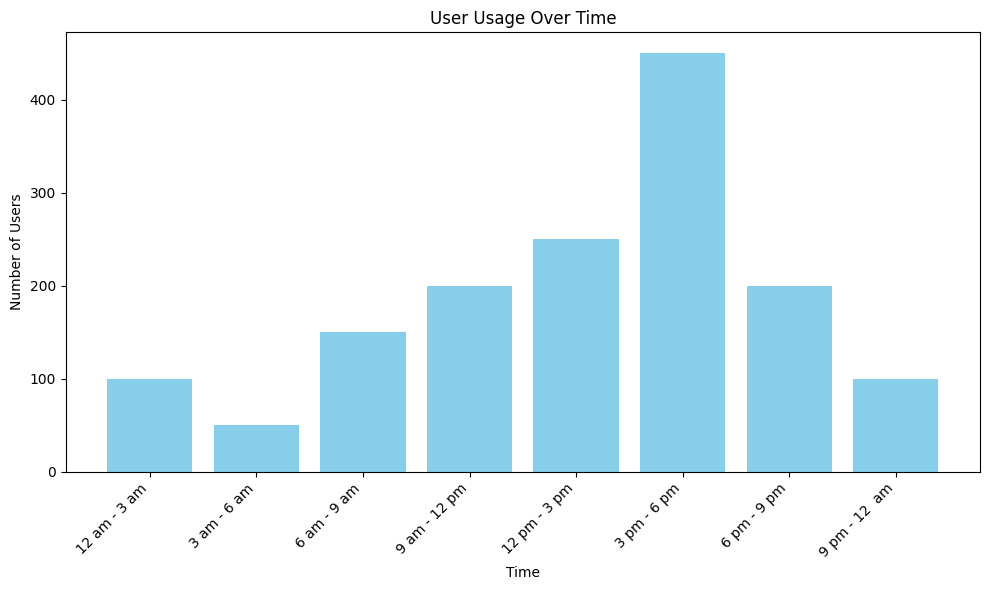
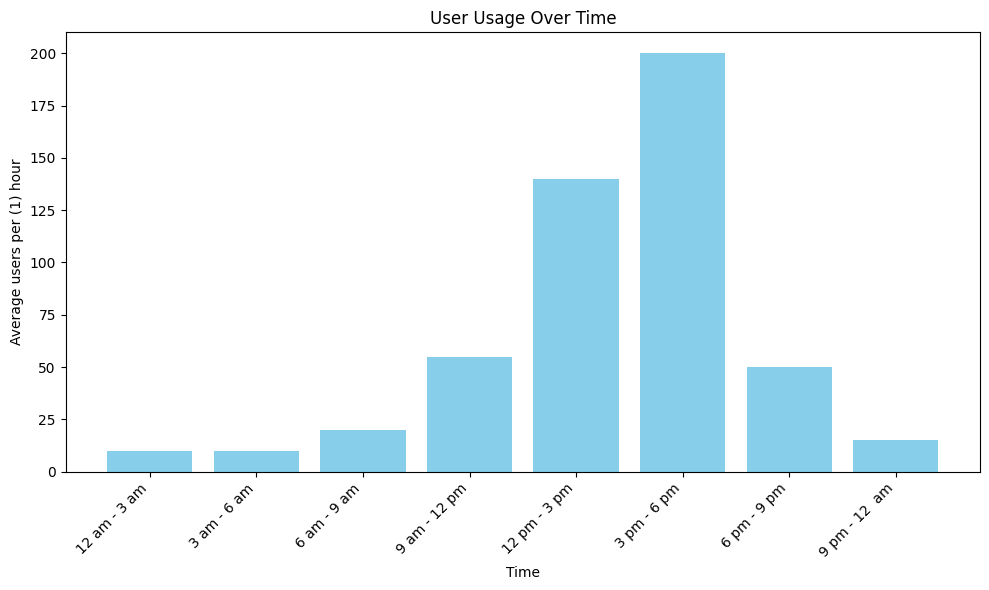
Rewrite Task 2 with clearer explaination and better math

diff --git a/README.md b/README.md
@@ -96,20 +96,64 @@ While I can just deploy my docker compose on an EC2 instance and call it a day, 
 For the endpoint, an easy and safe choice would be using a serverless function cloud provider, such as AWS lambda or Google's Cloud Run functions. The reason behind choosing a serverless function cloud provider rather than a serverful is that it is generally cheaper, and should work perfectly for our usecase, which in this case would literally only be a fastapi endpoint that requests from another endpoint (The LLM over at Runpod). And despite serverless functions usually having a problem with cold starts, AWS lambda and Cloud Run functions are optimized to reduce this issue significantly.
 
 ## Cost Estimation
-For the cost estimation, I'll have to assume the 1500 users are using the service per day.
+For the cost estimation, I'll have to assume the 1500 users are using the service per day spanning across this distrubtion on this table (distrubution):
 
-For the **LLM inference**, we will not be using the dedicated server because it is less effecient for inference, so instead we will go for the serverless option, which is cheaper, and more effecient: 
+| Time Slot         | Users per Hour | Users per minute
+|-------------------|:--------------:|:----------------:
+| 12 am - 3 am      |      10        |        0.16
+| 3 am - 6 am       |      10        |        0.16
+| 6 am - 9 am       |      20        |        0.33
+| 9 am - 12 pm      |      55        |        0.91
+| 12 pm - 3 pm      |     140        |        2.33
+| 3 pm - 6 pm       |     200        |        3.33
+| 6 pm - 9 pm       |      50        |        0.83
+| 9 pm - 12 am      |      15        |        0.25
 
-    Lets assume that we are using a serverless 4090 from RunPod. A 4090 server would cost $1.10/hr. We also have to assume that the average request takes a maximum 8 seconds (In reality it will only take around 5). Doing very simple math with this information:
+<img src="images/usage_graph.png" alt="" width="80%" />
 
-    - 1500 Users/day
-    - Each user causes the model to be used for 8 seconds
-    - $0.00031/s for model usage
+For the **LLM inference**, we will conduct tests to test whether a dedicated server will be more efficient vs a serverless host. We will start with calculating the serverless option: 
 
-    1500 * 8 = 12,000 seconds of model usage
-    12,000 * 0.00031 = 3.72$/day OR 111.6$/month
+    Lets assume that we are using a serverless 4090 from RunPod. A 4090 server would cost $1.10/hr. We also have to assume that the average request takes a maximum 7 seconds (In reality it will only take around 5). Another important assumption is whether flex (workers that are active during spikes in usage) or active (workers that are always on) workers will be used. We will assume that active workers are on during the entire day, except at between 12 pm and 6 pm where both active and flex workers will be active.
 
-All the calculations above were calculated using the "Flex" workers, which are the more expensive workers that are used at times of spikes in usage.
+    - Each user causes the model to be used for 7 seconds
+    - $0.00031/s for model usage - flex
+    - $0.00021/s for model usage - active
+
+    - $A$ = Users per Hour during Normal hour periods
+    - $B$ = Users per Hour during Rush hour periods
+
+$$cost_{serverless} = \sum_{a \in A}{(3* 0.00021 * 7)a} + \sum_{b \in B}{(3* (0.00021 + 0.00031) * 7)b} $$
+
+    The cost comes to $5.04/day for a serverless option.
+
+    Now we will calculate the dedicated server cost. To be able to do that, we have to assume how many calls happen per hour so that we can calculate how many calls intercept each other which will be required to calculated the number of models served. We will still assume that 1500 users use the service per day. 
+    
+    The users per minute is required because we will assume that that is the number of models served required per hour. 
+    We can now estimate the cost of the dedicated RunPod 4090 (24 GB Vram).
+
+    - $0.69/hr for dedicated server.
+    - Each request takes around 8 seconds.
+    - A single 4090 can serve 4 qwen3:8b (5GB) models at once.
+        - 3600 seconds  * 4 models / 8 seconds per request = 1800 users/hour per 1 gpu
+        - 30 users/minute per 1 gpu
+    - $U$: Users per minute thoughout its respective time windows.
+    
+    Cost:
+
+$$cost_{dedicated}(i) = \sum_{i \in U}3*0.69*ceil(i/30)$$
+
+    Meaning that 1500 users a day (given the ditribution above) will cost: $16.56/day on a dedicated server
+
+    Despite it seeming like the serverless is cheaper, it scales much faster than dedicated. The graph below shows so:
+
+<img src="images/serverlessvsdedicated.png" alt="LLM inference" width="60%" />
+
+    After reaching around 4922 users, the dedicated starts being more feasible than the serverless. Ofcourse all of the above is assuming we are still following the distribution of the users above.
+
+
+    Also, I am assuming that we want to process each request live, and cannot just store them in memory and crone-job them all at once. If that were the case, then life would be much easier to calculate. And dedicated would be more fitting for that case. 
+
+
 
 For the **AWS lambda function**, its cost can be calculated using [their website](https://calculator.aws/#/createCalculator/Lambda). Given these assumptions:
 - Region: Frankfurt
